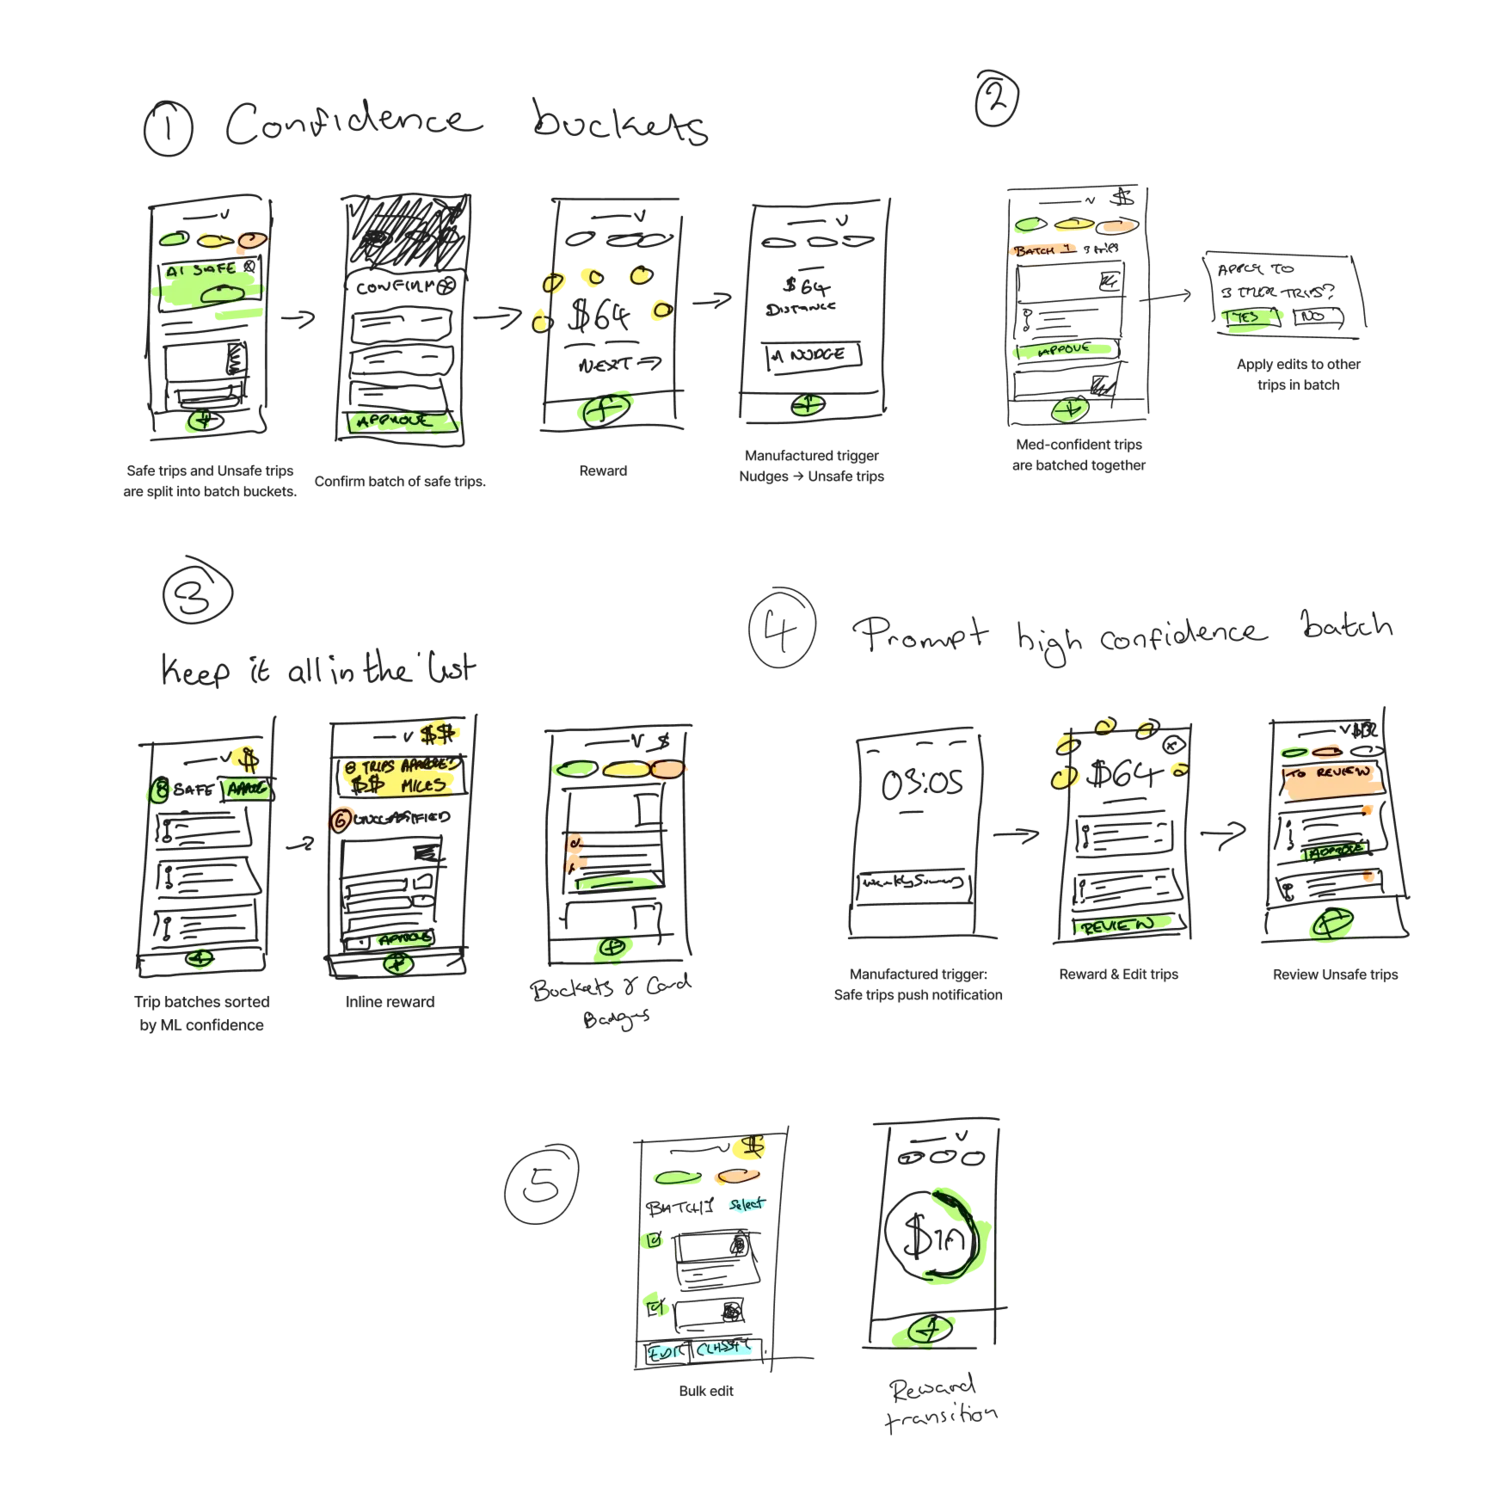
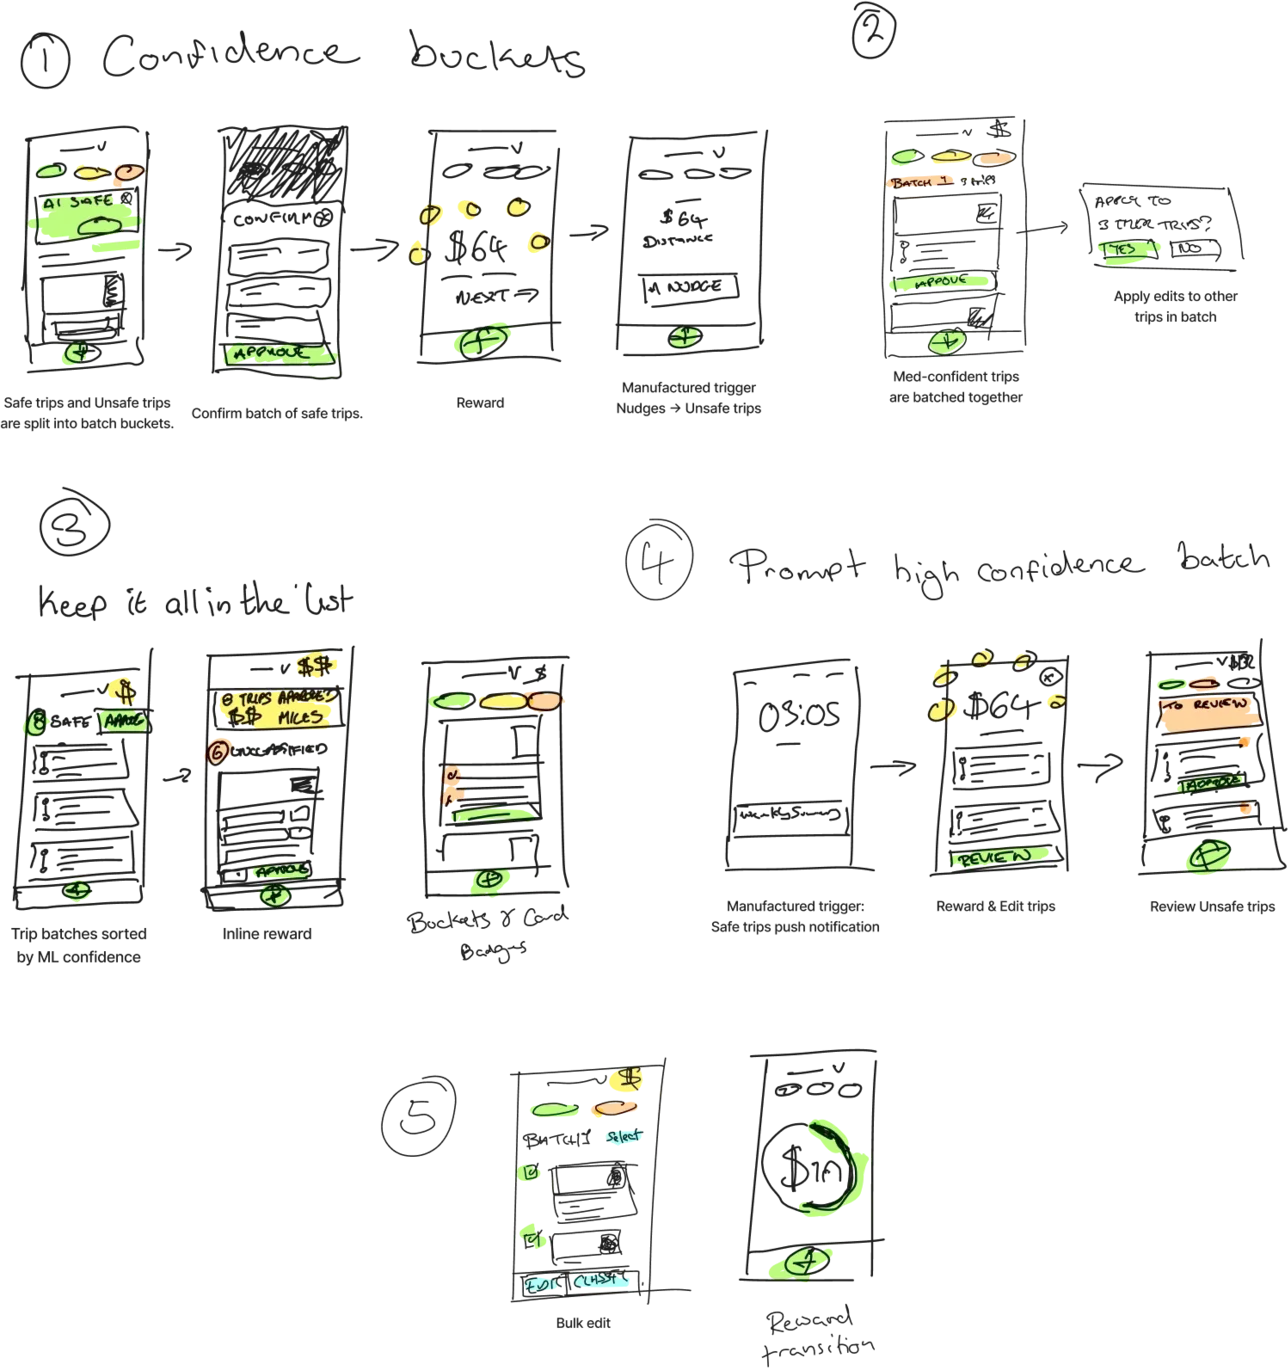
deploy: noringriis/portfolio-project@ad1fe87a480cd70493a8e74abf0b26c251c2eb3a

diff --git a/_astro/ProcessTimeline.DAVHv2Iy.css b/_astro/ProcessTimeline.DAVHv2Iy.css
@@ -1,0 +1,1 @@
+.ptl[data-astro-cid-vgrazr7s]{padding-inline:calc(120px + (100% - 240px - 11 * 24px) / 12 + 24px)}.ptl__head[data-astro-cid-vgrazr7s]{margin:0 0 var(--spacing-32)}.ptl__title[data-astro-cid-vgrazr7s]{margin:0 0 16px;font-family:var(--font-heading);font-size:var(--text-heading-lg-plus);line-height:var(--text-heading-lg-plus--line-height);letter-spacing:var(--text-heading-lg-plus--letter-spacing);font-weight:600;color:var(--color-text-primary)}.ptl__subhead[data-astro-cid-vgrazr7s]{margin:0;font-family:var(--font-body);font-size:var(--text-body-md);line-height:1.6;color:var(--color-text-secondary-strong)}.ptl__card[data-astro-cid-vgrazr7s]{border-radius:16px}.ptl__tabbar[data-astro-cid-vgrazr7s]{display:none;align-items:center;width:100%;height:62px;padding:6px;box-sizing:border-box;gap:4px;background-color:var(--color-surface-raised);border-radius:var(--radius-full);margin-bottom:var(--spacing-48)}.ptl__tab[data-astro-cid-vgrazr7s]{text-decoration:none;cursor:pointer;flex:1;min-width:0;height:100%;display:inline-flex;align-items:center;justify-content:center;padding:var(--spacing-8) 16px;border-radius:var(--radius-full);font-family:var(--font-heading);font-size:var(--text-body-md);font-weight:600;color:var(--color-text-tertiary-raised);background-color:transparent;transition:background-color .3s cubic-bezier(.22,1,.36,1),color .3s ease}.ptl__tab[data-astro-cid-vgrazr7s]:hover{color:var(--color-text-primary);background-color:var(--color-surface-canvas);box-shadow:0 1px 2px #0000000f}.ptl__tab[data-astro-cid-vgrazr7s]:focus-visible{outline:2px solid var(--color-text-primary);outline-offset:2px}.ptl__rows[data-astro-cid-vgrazr7s]{display:flex;flex-direction:column;gap:8px}.ptl__row[data-astro-cid-vgrazr7s]{display:grid;grid-template-columns:repeat(var(--ptl-row-count, 1),1fr);gap:8px;scroll-margin-top:var(--spacing-96)}.ptl__step[data-astro-cid-vgrazr7s]{background:var(--color-surface-raised);border-radius:16px;padding:24px;display:flex;flex-direction:column;align-items:flex-start;height:200px}.ptl__n[data-astro-cid-vgrazr7s]{margin:0;font-family:IBM Plex Mono,ui-monospace,SFMono-Regular,Menlo,monospace;font-size:12px;letter-spacing:.08em;text-transform:uppercase;color:var(--color-text-tertiary-raised)}.ptl__text[data-astro-cid-vgrazr7s]{flex:1 0 0;display:flex;flex-direction:column;justify-content:center;gap:12px;width:100%;min-height:0;min-width:0}.ptl__heading[data-astro-cid-vgrazr7s]{margin:0;font-family:var(--font-heading);font-size:var(--text-heading-sm);line-height:var(--text-heading-sm--line-height);letter-spacing:var(--text-heading-sm--letter-spacing);font-weight:600;color:var(--color-text-primary)}.ptl__body[data-astro-cid-vgrazr7s]{margin:0;font-family:var(--font-body);font-size:var(--text-body-sm);line-height:var(--text-body-sm--line-height);color:var(--color-text-secondary-strong)}.ptl__row--compact[data-astro-cid-vgrazr7s] .ptl__step[data-astro-cid-vgrazr7s]{height:200px}.ptl__row--compact[data-astro-cid-vgrazr7s] .ptl__heading[data-astro-cid-vgrazr7s]{font-size:var(--text-body-md);line-height:var(--text-heading-sm--line-height);letter-spacing:var(--text-heading-sm--letter-spacing)}.ptl__image-row[data-astro-cid-vgrazr7s]{display:grid;grid-template-columns:repeat(10,1fr);gap:24px}.ptl__image-row[data-astro-cid-vgrazr7s]>[data-astro-cid-vgrazr7s]:nth-child(1){grid-column:2 / span 4}.ptl__image-row[data-astro-cid-vgrazr7s]>[data-astro-cid-vgrazr7s]:nth-child(2){grid-column:6 / span 4}.ptl__image-placeholder[data-astro-cid-vgrazr7s]{aspect-ratio:1 / 1;background:var(--color-surface-raised);border-radius:8px}.ptl__image[data-astro-cid-vgrazr7s]{aspect-ratio:1 / 1;background:var(--color-surface-raised);border-radius:8px;overflow:hidden}.ptl__image[data-astro-cid-vgrazr7s] img[data-astro-cid-vgrazr7s]{width:100%;height:100%;object-fit:cover;display:block}.ptl__image--device[data-astro-cid-vgrazr7s]{display:flex;align-items:center;justify-content:center;padding:24px;overflow:visible;box-sizing:border-box}.ptl__image--device[data-astro-cid-vgrazr7s] .dn-mockup__screen img{object-fit:cover;width:100%;height:100%;display:block}.ptl__image--device[data-astro-cid-vgrazr7s] .dn-mockup--framed .dn-mockup__bezel{box-shadow:0 2px 4px #00000014,inset 0 1px #fff9,inset 0 -1px #ffffff1a}@media(max-width:1200px){.ptl[data-astro-cid-vgrazr7s]{padding-inline:calc(88px + (100% - 296px)/8)}}@media(max-width:768px){.ptl[data-astro-cid-vgrazr7s]{padding-inline:var(--spacing-24)}.ptl__row[data-astro-cid-vgrazr7s]{grid-template-columns:1fr}.ptl__image-row[data-astro-cid-vgrazr7s]{grid-template-columns:1fr;gap:8px}.ptl__image-row[data-astro-cid-vgrazr7s]>[data-astro-cid-vgrazr7s]:nth-child(1),.ptl__image-row[data-astro-cid-vgrazr7s]>[data-astro-cid-vgrazr7s]:nth-child(2){grid-column:auto}.ptl__step[data-astro-cid-vgrazr7s],.ptl__row--compact[data-astro-cid-vgrazr7s] .ptl__step[data-astro-cid-vgrazr7s]{height:auto}}

diff --git a/work/smart-inbox/index.html b/work/smart-inbox/index.html
@@ -3,7 +3,7 @@
 <link rel="stylesheet" href="/_astro/smart-inbox.CXjk34Io.css">
 <style>.case-ticker[data-astro-cid-iyjp4mz5]{padding:0 120px}.case-ticker__bar[data-astro-cid-iyjp4mz5]{height:62px;padding:1px;border-radius:8px;background:var(--color-surface-inverse);box-shadow:inset 1.5px 1.5px .5px -.5px #e2ede533,inset -1.5px -1.5px 1px -1px #e2ede51f,inset 0 0 0 1px #ffffff0d;box-sizing:border-box;overflow:hidden}.case-ticker__window[data-astro-cid-iyjp4mz5]{height:100%;overflow:hidden}.case-ticker__track[data-astro-cid-iyjp4mz5]{display:flex;align-items:stretch;height:100%;width:max-content;margin:0;padding:0;list-style:none;will-change:transform}.case-ticker__card[data-astro-cid-iyjp4mz5]{height:100%;display:flex;align-items:center;padding:0 40px;border-right:1px solid rgba(255,255,255,.1);box-sizing:border-box}.case-ticker__title[data-astro-cid-iyjp4mz5]{display:block;color:var(--color-text-inverse);text-decoration:none;font-family:var(--font-heading);font-size:16px;line-height:1.25;font-weight:600;white-space:nowrap;transition:opacity .2s ease}.case-ticker__title[data-astro-cid-iyjp4mz5]:hover{opacity:.65}.case-ticker__title[data-astro-cid-iyjp4mz5]:focus-visible{outline:2px solid rgba(226,237,229,.4);outline-offset:4px}@media(max-width:1200px){.case-ticker[data-astro-cid-iyjp4mz5]{padding:0 64px}}@media(max-width:768px){.case-ticker[data-astro-cid-iyjp4mz5],.case-ticker__card[data-astro-cid-iyjp4mz5]{padding:0 24px}}.case-footer[data-astro-cid-7vaezpnx]{display:flex;justify-content:space-between;align-items:baseline;gap:24px;flex-wrap:wrap;padding:0 120px 48px;font-family:IBM Plex Mono,ui-monospace,SFMono-Regular,Menlo,monospace;font-size:var(--text-body-sm);line-height:1.3;letter-spacing:.08em;text-transform:uppercase;color:var(--color-text-tertiary)}@media(max-width:1200px){.case-footer[data-astro-cid-7vaezpnx]{padding:0 64px 48px}}@media(max-width:768px){.case-footer[data-astro-cid-7vaezpnx]{padding:0 24px 40px;flex-direction:column;align-items:flex-start;gap:12px}}
 </style>
-<link rel="stylesheet" href="/_astro/ProcessTimeline.DIEU_rr7.css"><style>[data-astro-transition-scope="astro-r6ob7s56-1"] { view-transition-name: case-surface; }@layer astro { ::view-transition-old(case-surface) { 
+<link rel="stylesheet" href="/_astro/ProcessTimeline.DAVHv2Iy.css"><style>[data-astro-transition-scope="astro-r6ob7s56-1"] { view-transition-name: case-surface; }@layer astro { ::view-transition-old(case-surface) { 
 	animation-duration: 180ms;
 	animation-timing-function: cubic-bezier(0.76, 0, 0.24, 1);
 	animation-fill-mode: both;

diff --git a/work/brand-illustration/index.html b/work/brand-illustration/index.html
@@ -5,7 +5,7 @@
 <link rel="stylesheet" href="/_astro/ImpactGrid.vLqx9Z6O.css">
 <style>.case-ticker[data-astro-cid-iyjp4mz5]{padding:0 120px}.case-ticker__bar[data-astro-cid-iyjp4mz5]{height:62px;padding:1px;border-radius:8px;background:var(--color-surface-inverse);box-shadow:inset 1.5px 1.5px .5px -.5px #e2ede533,inset -1.5px -1.5px 1px -1px #e2ede51f,inset 0 0 0 1px #ffffff0d;box-sizing:border-box;overflow:hidden}.case-ticker__window[data-astro-cid-iyjp4mz5]{height:100%;overflow:hidden}.case-ticker__track[data-astro-cid-iyjp4mz5]{display:flex;align-items:stretch;height:100%;width:max-content;margin:0;padding:0;list-style:none;will-change:transform}.case-ticker__card[data-astro-cid-iyjp4mz5]{height:100%;display:flex;align-items:center;padding:0 40px;border-right:1px solid rgba(255,255,255,.1);box-sizing:border-box}.case-ticker__title[data-astro-cid-iyjp4mz5]{display:block;color:var(--color-text-inverse);text-decoration:none;font-family:var(--font-heading);font-size:16px;line-height:1.25;font-weight:600;white-space:nowrap;transition:opacity .2s ease}.case-ticker__title[data-astro-cid-iyjp4mz5]:hover{opacity:.65}.case-ticker__title[data-astro-cid-iyjp4mz5]:focus-visible{outline:2px solid rgba(226,237,229,.4);outline-offset:4px}@media(max-width:1200px){.case-ticker[data-astro-cid-iyjp4mz5]{padding:0 64px}}@media(max-width:768px){.case-ticker[data-astro-cid-iyjp4mz5],.case-ticker__card[data-astro-cid-iyjp4mz5]{padding:0 24px}}.case-footer[data-astro-cid-7vaezpnx]{display:flex;justify-content:space-between;align-items:baseline;gap:24px;flex-wrap:wrap;padding:0 120px 48px;font-family:IBM Plex Mono,ui-monospace,SFMono-Regular,Menlo,monospace;font-size:var(--text-body-sm);line-height:1.3;letter-spacing:.08em;text-transform:uppercase;color:var(--color-text-tertiary)}@media(max-width:1200px){.case-footer[data-astro-cid-7vaezpnx]{padding:0 64px 48px}}@media(max-width:768px){.case-footer[data-astro-cid-7vaezpnx]{padding:0 24px 40px;flex-direction:column;align-items:flex-start;gap:12px}}
 </style>
-<link rel="stylesheet" href="/_astro/ProcessTimeline.DIEU_rr7.css"><style>[data-astro-transition-scope="astro-r6ob7s56-1"] { view-transition-name: case-surface; }@layer astro { ::view-transition-old(case-surface) { 
+<link rel="stylesheet" href="/_astro/ProcessTimeline.DAVHv2Iy.css"><style>[data-astro-transition-scope="astro-r6ob7s56-1"] { view-transition-name: case-surface; }@layer astro { ::view-transition-old(case-surface) { 
 	animation-duration: 180ms;
 	animation-timing-function: cubic-bezier(0.76, 0, 0.24, 1);
 	animation-fill-mode: both;
